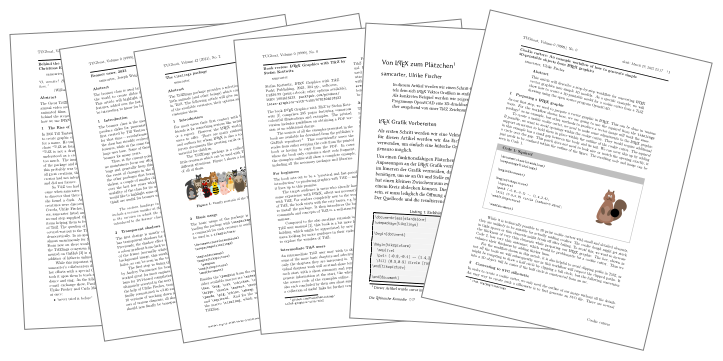
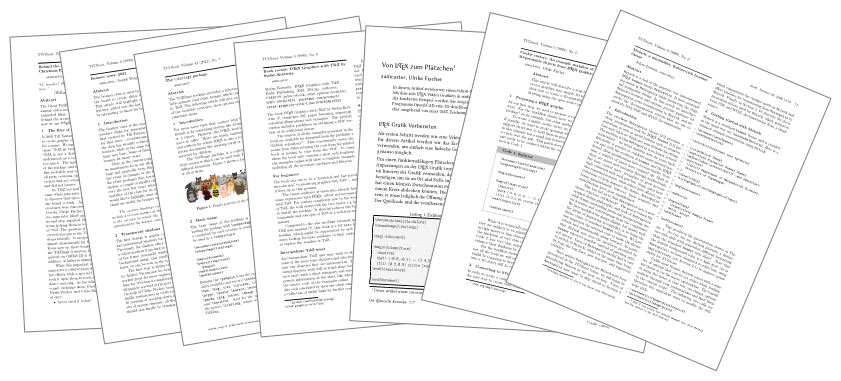
update readme

diff --git a/ressouces/pubs.tex b/ressouces/pubs.tex
@@ -20,7 +20,8 @@
   ../../../latex/TUGboat_TikZzoo/tb131samcarter-tikzlings.pdf,
   ../../../latex/TUGboat_BookReview/Review_Graphics_with_TikZ.pdf,
   ../../../latex/DTK_Cookies/samcarter.pdf,
-  ../../../latex/TUGboat_Cookies/tugboat_cookies.pdf%
+  ../../../latex/TUGboat_Cookies/tugboat_cookies.pdf,
+  ../../../latex/TUGboat_moloch/papers/tugboat.pdf%
 }{
   \node[fill=white,draw=gray,thick,anchor=south,rotate=-10+20*sin(40+30*\yi)] at (\yi*8cm,\yi*0cm) {\includegraphics[height=30cm]{\macro}};
 }

diff --git a/README.md b/README.md
@@ -183,11 +183,16 @@ Furthermore, I'm one of the maintainers for the LaTeX beamer class ([CTAN](https
 
 ![](./ressouces/pubs.png)
 
+- Johan Larsson & samcarter (2026): "Moloch: a minimalist, feature-rich beamer theme", TUGboat 47.1 (
+    [doi](https://doi.org/10.47397/tb/47-1/tb145larsson-moloch),
+    [url](https://tug.org/TUGboat/tb47-1/)
+  )
+
 - samcarter & Ulrike Fischer (2025): "Cookie cutters: An example workflow of how to generate simple 3D-printable objects from LaTeX graphics", TUGboat 46.1 (
     [doi](https://doi.org/10.47397/tb/46-1/tb142samcarter-cookies),
     [url](https://tug.org/TUGboat/tb46-1/)
   )
-  
+
 - samcarter & Ulrike Fischer (2025): "Von LaTeX zum Plätzchen", Die TEXnische Komödie 2/2025
 
 - samcarter (2023): "Book review: LaTeX Graphics with TikZ by Stefan Kottwitz", TUGboat 44.3 (
